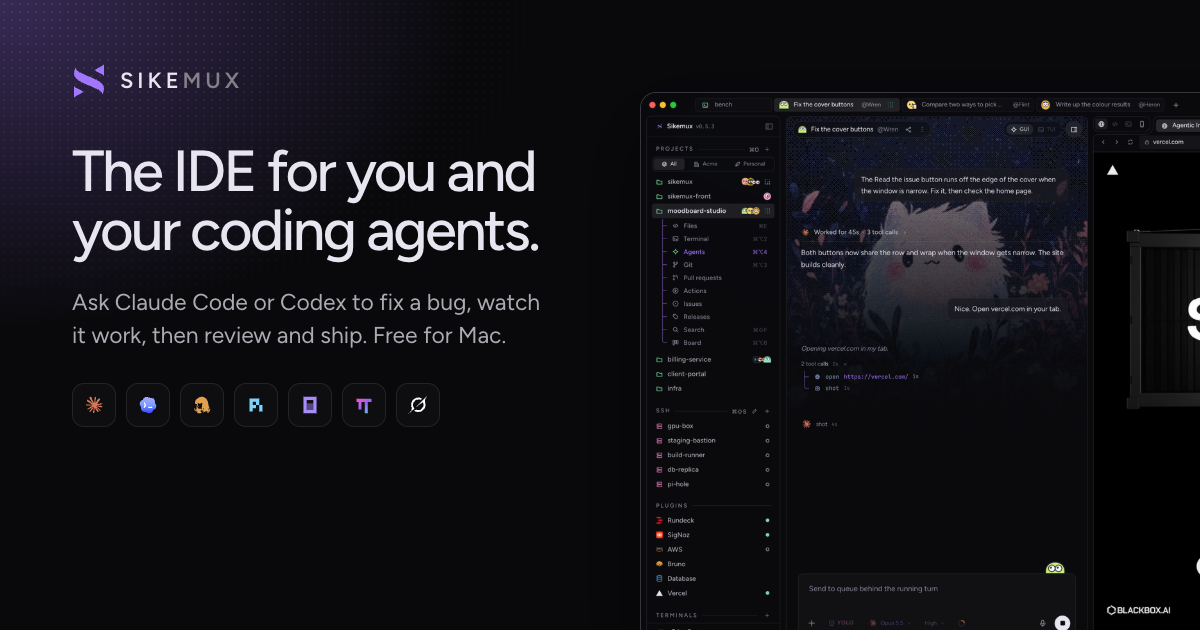
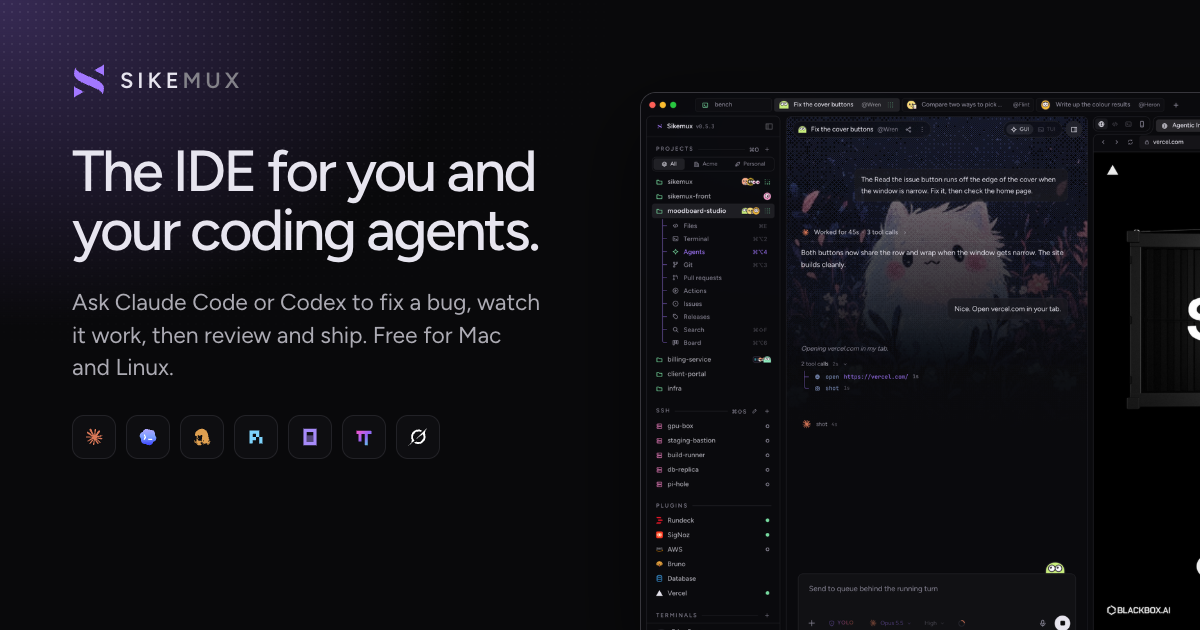
fix(seo): the home page, agent pages, share card and llms.txt say Mac and Linux, now that 0.5.3 ships Linux
Agent: Fjord (claude 2.1.296, sikemux 0.5.4-nightly.3, session f237e287-ce31-4bc6-9e7d-f3f26318f369, chat agent-vhibmf-mvh7fims-1z, host 03c112f7c38a48c2)
Agent-Signature: k1JJOR+5sUqr8CNkrGsn3TiwH8Dfsb5riUNfth0vguenL0Zp22UKWgvEqMGbzCx24/+9fzZHmJKeEXc5fCWFDQ

diff --git a/src/pages/llms.txt.ts b/src/pages/llms.txt.ts
@@ -8,9 +8,9 @@ export const GET: APIRoute = ({ site }) => {
     const url = (path: string) => new URL(path, site).href;
     const body = `# Sikemux
 
-> Sikemux is a free, source-available agentic IDE for Apple Silicon Macs. It runs the coding agents you already use (Claude Code, Codex, OpenCode, Hermes, Grok, OMP and Pi), signed in with your own plan, in one window with a code editor, terminals, Git review, a real browser tab for each agent, an iOS Simulator, and your GitHub, GitLab, Bitbucket, Jira, database, AWS, Rundeck, SigNoz and Bruno views. Sikemux has no AI of its own and never sends code anywhere except to the agent you choose.
+> Sikemux is a free, source-available agentic IDE for Apple Silicon Macs and x86_64 Linux. It runs the coding agents you already use (Claude Code, Codex, OpenCode, Hermes, Grok, OMP and Pi), signed in with your own plan, in one window with a code editor, terminals, Git review, a real browser tab for each agent, an iOS Simulator, and your GitHub, GitLab, Bitbucket, Jira, database, AWS, Rundeck, SigNoz and Bruno views. Sikemux has no AI of its own and never sends code anywhere except to the agent you choose.
 
-- Download: ${url("/")} (about 16 MB, macOS 11 or later, Apple Silicon)
+- Download: ${url("/")} (macOS 11 or later on Apple Silicon, about 16 MB; x86_64 Linux as a .deb, .rpm or AppImage)
 - Install from a terminal: \`${INSTALL_COMMAND}\`
 - Source: ${REPO_URL} (Functional Source License)
 - Docs: https://docs.sikemux.com
